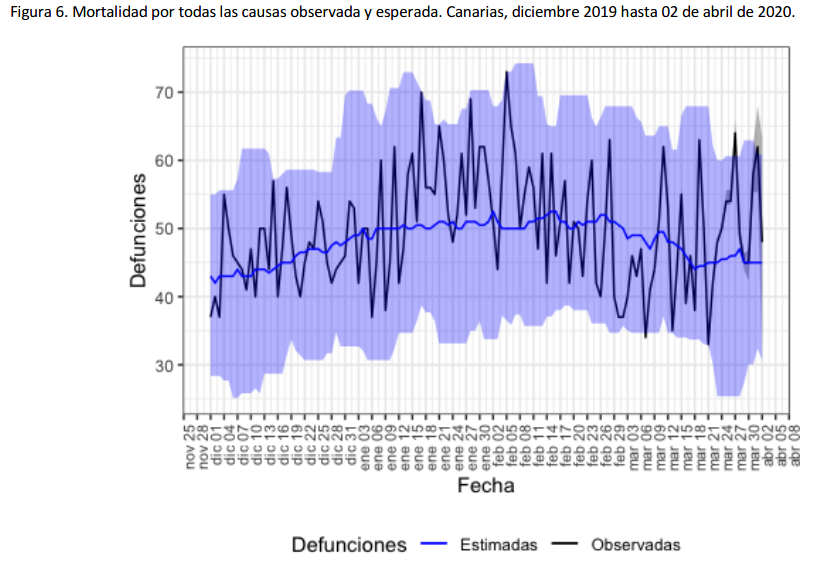
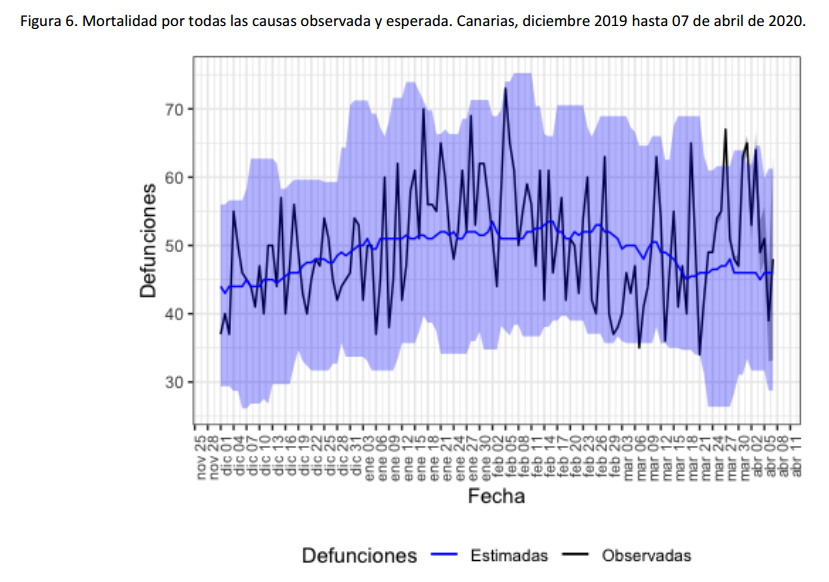
Update MoMo to 10-04-2020

diff --git a/index.html b/index.html
@@ -108,18 +108,8 @@
 
             <li>
               Context on <!--<a href="#covid19-ref-tweets">articles</a>,-->
-              <a href="#covid19-estimates">confirmed cases vs estimates</a>, <a href="#covid19-estimates-deaths">mortality</a>,
-
-
-<!--
-              ...
+              <a href="#covid19-estimates">confirmed cases vs estimates</a>, <a href="#covid19-estimates-deaths">mortality</a><i><sup><small>(10/04/2020)</small></sup></i>
             </li>
-            <li>
-            Analysis of -->
-
-
-
-
             <li>
             Simulations with <a href="#covid19-epcalc">Epidemic Calculator</a>
             </li>
@@ -245,7 +235,7 @@
 
 
 
-            <div class="subheading mb-3" id="covid19-estimates-deaths">Reported deaths vs estimates of actual deaths.</div>
+            <div class="subheading mb-3" id="covid19-estimates-deaths">Reported deaths vs estimates of actual deaths (updated 10-04-2020)</div>
               <!--MoMo: Monitoring of Excess Mortality-->
               <p>
                 Moreover the number of confirmed and notified deaths is also an estimation of actual deaths caused by the virus.
@@ -267,7 +257,7 @@
               <p>Despite the dramatic situation in many places, differences are still huge even for regions in the same country.
                 For instance, the following charts belong to the
                 <a href="https://www.isciii.es/QueHacemos/Servicios/VigilanciaSaludPublicaRENAVE/EnfermedadesTransmisibles/MoMo/Documents/informesMoMo2020/MoMo_Situacion%20a%202%20de%20abril_CNE.pdf">
-                  Spanish MoMo report (April 2th):
+                  Spanish MoMo report (April 7th):
               <img src="img/momo_spain.png"  alt="euromomo Spain">
               <img src="img/momo_madrid.png"  alt="euromomo Madrid">
                 <img src="img/momo_canarias.png"  alt="euromomo Canary Islands">
@@ -285,10 +275,10 @@
               </p>
               <p>
                 Fortunately, after the hard confinement measures decreed by the Spanish Government,
-                both regions have current estimations of Basic Reproduction Number (R0) at April 4th near or under 1.
+                both regions have current estimations of Basic Reproduction Number (R0) at April 7th near or under 1.
                 According to official
                 <a href="https://portalcne.isciii.es/covid19/">estimates by the Spanish Ministry of Healthcare</a>,
-                R0 estimates would be 1.02 for Madrid and 0.75 for the Canary Islands.
+                R0 estimates would be 0.99 for Madrid and 0.71 for the Canary Islands.
               </p>
 
 
@@ -520,7 +510,7 @@ and provide more reliable estimates than starting from the first confirmed case.
               <li><a href="https://elpais.com/sociedad/2020/04/03/actualidad/1585936102_333545.html">Así evoluciona la curva del coronavirus en España y en cada autonomía (elpais.com)</a>
               </li>
               <li>
-                <a href="https://www.isciii.es/QueHacemos/Servicios/VigilanciaSaludPublicaRENAVE/EnfermedadesTransmisibles/MoMo/Documents/informesMoMo2020/MoMo_Situacion%20a%202%20de%20abril_CNE.pdf">Vigilancia de los excesos de mortalidad por todas las causas. MoMo (Situación a 2/4/2020)</a>
+                <a href="https://www.isciii.es/QueHacemos/Servicios/VigilanciaSaludPublicaRENAVE/EnfermedadesTransmisibles/MoMo/Documents/informesMoMo2020/MoMo_Situacion%20a%207%20de%20abril_CNE.pdf">Vigilancia de los excesos de mortalidad por todas las causas. MoMo (Situación a 7/4/2020)</a>
               </li>
               <li>
                 <a href="https://www.isciii.es/QueHacemos/Servicios/VigilanciaSaludPublicaRENAVE/EnfermedadesTransmisibles/Documents/INFORMES/Informes%20COVID-19/Informe%20n%C2%BA%2020.%20Situaci%C3%B3n%20de%20COVID-19%20en%20Espa%C3%B1a%20a%203%20de%20abril%20de%202020.pdf">Informe sobre la situación de COVID-19 en España. 3 abril 2020. RENAVE. CNE. CNM (ISCIII)</a>
